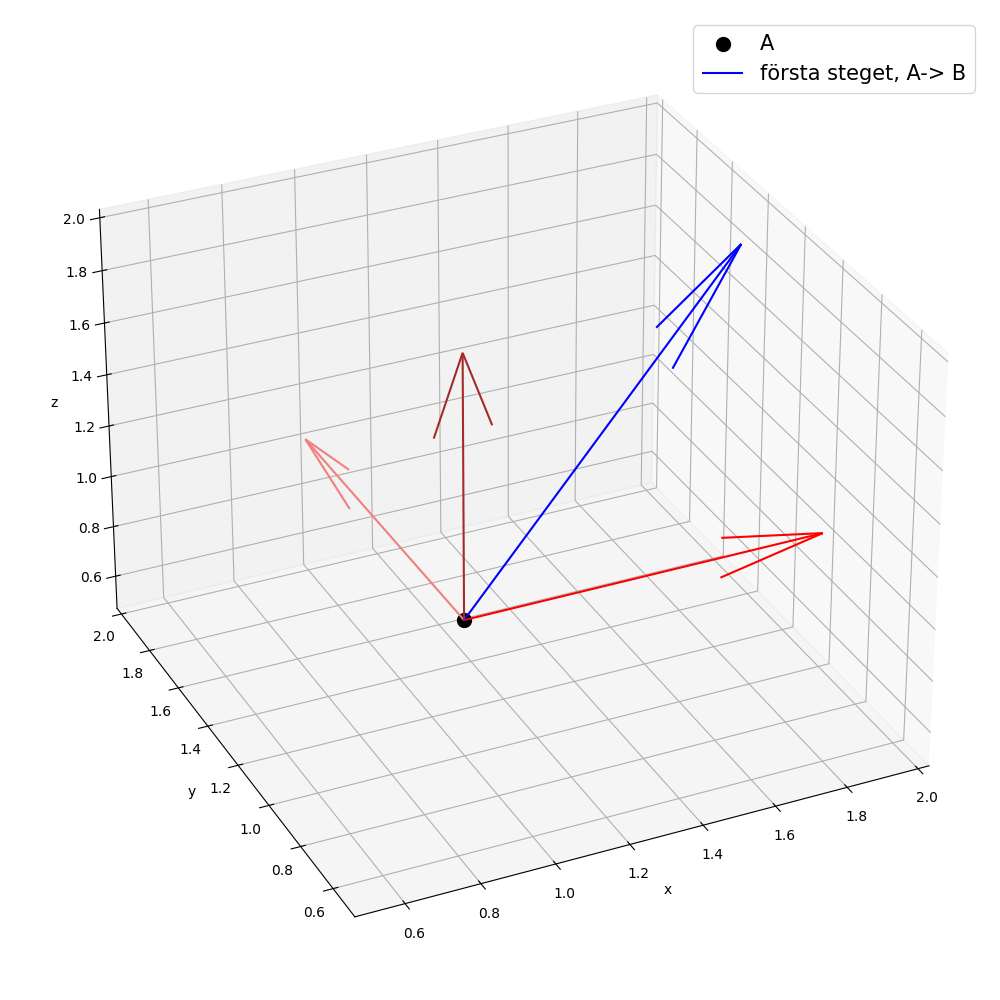
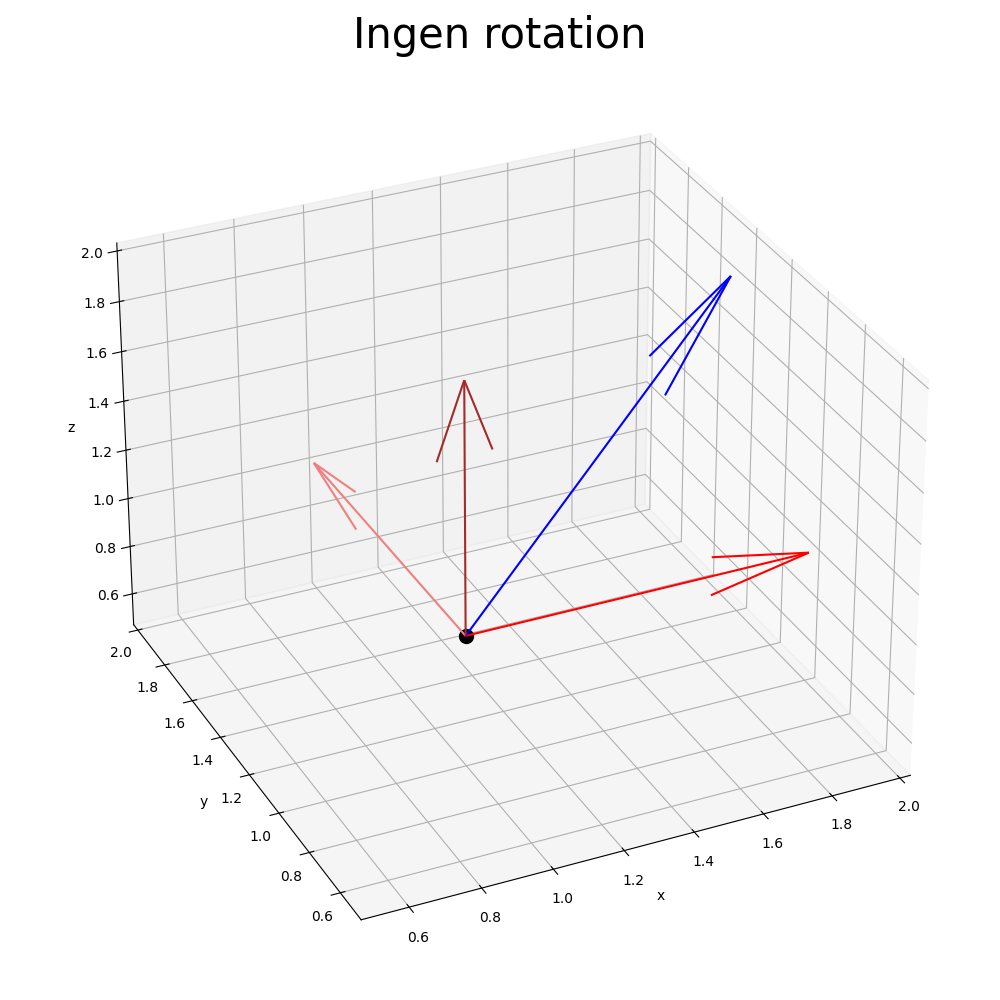
.

diff --git a/Martin/figurer_rapport.py b/Martin/figurer_rapport.py
@@ -156,7 +156,7 @@ def transformera_koordinatsystem_extended(steg_A_B, phi_A, theta_A, steg_B_C, ph
             [-np.sin(angle), 0, np.cos(angle)],
         ])
 
-    # R_y = np.identity(3)
+    R_y = np.identity(3)
     # R_z = np.identity(3)
 
     # R = R_y @ R_z
@@ -275,7 +275,7 @@ if __name__ == "__main__":
     #   ----------------------------------------------------------------------
     #   INPUT
     #   ---------------------------------------------------------------------
-    """
+
     # startpunkt A
     x_start = 1
     y_start = 1
@@ -314,7 +314,7 @@ if __name__ == "__main__":
     theta_B = pi / 3
     phi_B = pi / 3
     steg_B_C = 2
-
+"""
     #   ----------------------------------------------------------------------
     #   BERÄKNING
     #   ---------------------------------------------------------------------
@@ -358,7 +358,7 @@ if __name__ == "__main__":
 
     font_size = 15
 
-
+    """
     fig = plt.figure(figsize=(10, 10))
     ax = plt.axes(projection='3d')
     ax.set_xlim([0.5, 5])
@@ -481,7 +481,7 @@ if __name__ == "__main__":
     #           enhets_vektorer_B[2, 2],
     #           color='royalblue')
 
-    ax.quiver(x_A, y_A, z_A, dx_A_B, dy_A_B, dz_A_B, color='blue', label='första steget, A-> B')
+    ax.quiver(x_A, y_A, z_A, dx_A_B, dy_A_B, dz_A_B, color='blue')
     # ax.quiver(x_A + dx_A_B, y_A + dy_A_B, z_A + dz_A_B, (x_A_C - dx_A_B), (y_A_C - dy_A_B), (z_A_C - dz_A_B),
     #           color='darkviolet',
     #           label='andra steget, B->C (steg tas utifrån B\'s koordinatsystem')
@@ -493,8 +493,9 @@ if __name__ == "__main__":
 
     ax.azim, ax.elev = -115, 30
 
+    plt.title('Ingen rotation', fontsize=font_size*2)
     plt.tight_layout()
-    ax.legend(fontsize=font_size)
+    # ax.legend(fontsize=font_size)
     plt.savefig('3d_fig_rotation_0')
     plt.show()
 
@@ -545,11 +546,16 @@ if __name__ == "__main__":
 
     ax.azim, ax.elev = -115, 30
 
+    # plt.title('R = R_z R_y', fontsize=font_size*2)
+    plt.title('R = R_z', fontsize=font_size*2)
+    # plt.title('R = R_y', fontsize=font_size*2)
     plt.tight_layout()
-    ax.legend(fontsize=font_size)
-    plt.savefig('3d_fig')
+    # ax.legend(fontsize=font_size)
+    # plt.savefig('3d_fig_yz')
+    plt.savefig('3d_fig_z')
+    # plt.savefig('3d_fig_y')
     plt.show()
-"""
+
 
 
 
